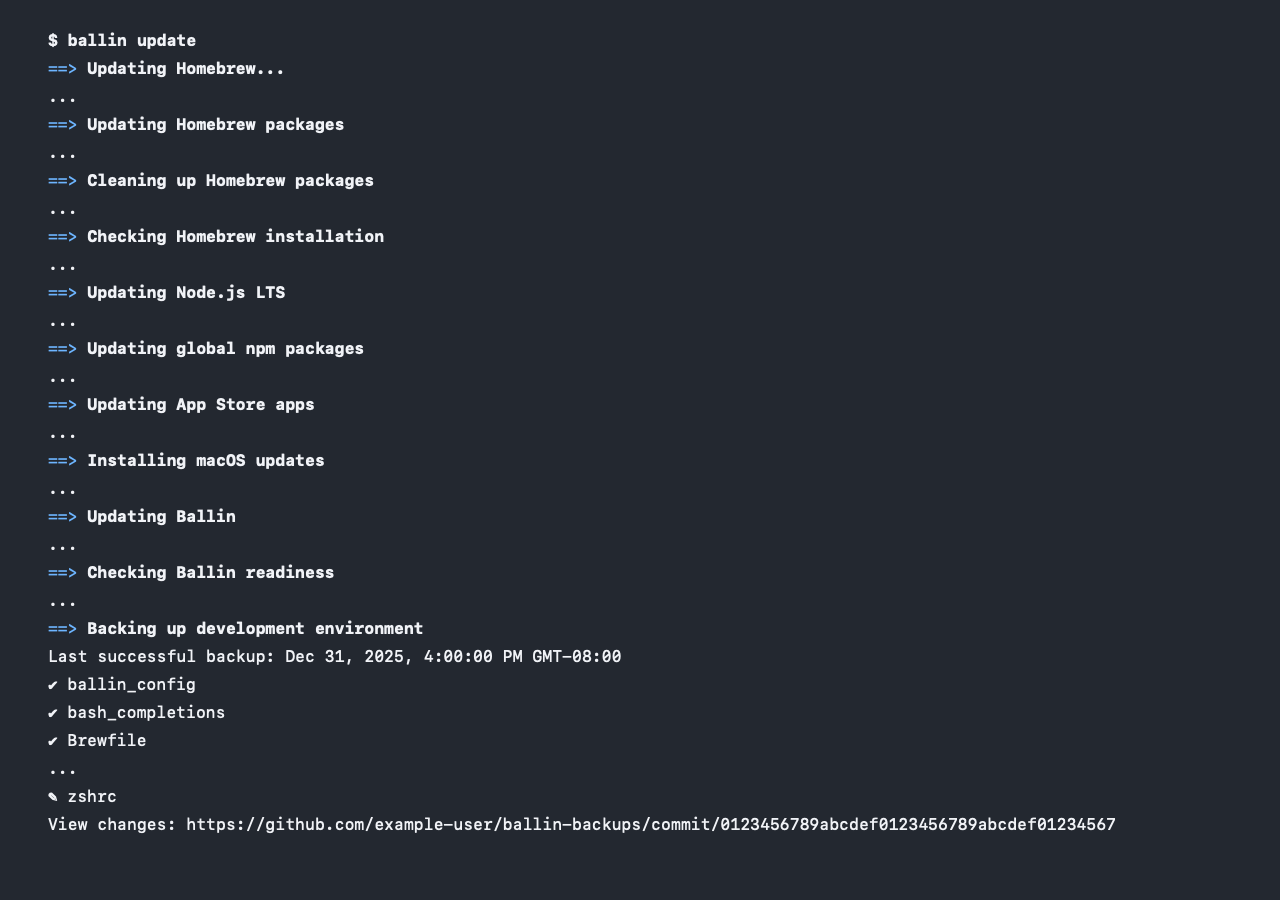
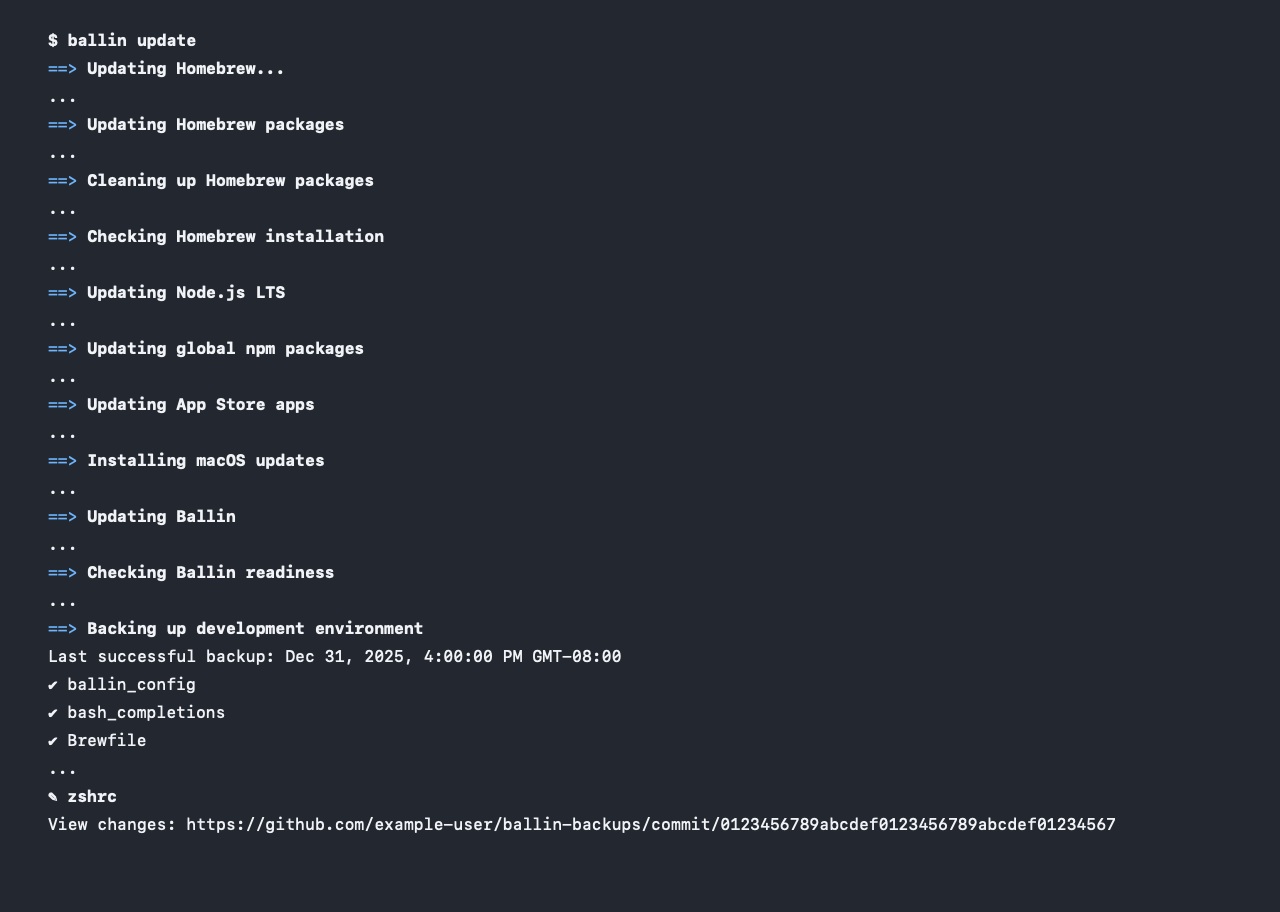
docs: make README example image reproducible

diff --git a/docs/assets/render-readme-update-example.swift b/docs/assets/render-readme-update-example.swift
@@ -1,0 +1,87 @@
+import AppKit
+import Foundation
+
+let inputData = FileHandle.standardInput.readDataToEndOfFile()
+guard let input = String(data: inputData, encoding: .utf8) else {
+    fatalError("Expected UTF-8 terminal output on stdin")
+}
+
+var lines = input.components(separatedBy: "\n")
+if lines.last == "" { lines.removeLast() }
+
+let width = 1280
+let height = max(720, lines.count * 28 + 100)
+let image = NSBitmapImageRep(
+    bitmapDataPlanes: nil,
+    pixelsWide: width,
+    pixelsHigh: height,
+    bitsPerSample: 8,
+    samplesPerPixel: 4,
+    hasAlpha: true,
+    isPlanar: false,
+    colorSpaceName: .deviceRGB,
+    bytesPerRow: 0,
+    bitsPerPixel: 0
+)!
+let graphics = NSGraphicsContext(bitmapImageRep: image)!
+NSGraphicsContext.saveGraphicsState()
+NSGraphicsContext.current = graphics
+graphics.cgContext.setFillColor(NSColor(calibratedRed: 0.105, green: 0.118, blue: 0.141, alpha: 1).cgColor)
+graphics.cgContext.fill(CGRect(x: 0, y: 0, width: width, height: height))
+
+let escape = "\u{001B}"
+let pattern = try NSRegularExpression(pattern: "\u{001B}\\[([0-9;]*)m")
+let regularFont = NSFont.monospacedSystemFont(ofSize: 16, weight: .regular)
+let boldFont = NSFont.monospacedSystemFont(ofSize: 16, weight: .bold)
+let normalColor = NSColor(calibratedRed: 0.93, green: 0.94, blue: 0.96, alpha: 1)
+let blueColor = NSColor(calibratedRed: 0.36, green: 0.64, blue: 1, alpha: 1)
+
+for (row, line) in lines.enumerated() {
+    let source = line as NSString
+    let matches = pattern.matches(in: line, range: NSRange(location: 0, length: source.length))
+    let rendered = NSMutableAttributedString(string: "")
+    var cursor = 0
+    var bold = false
+    var blue = false
+
+    for match in matches {
+        if match.range.location > cursor {
+            let text = source.substring(with: NSRange(location: cursor, length: match.range.location - cursor))
+            rendered.append(NSAttributedString(string: text, attributes: [
+                .font: bold ? boldFont : regularFont,
+                .foregroundColor: blue ? blueColor : normalColor,
+            ]))
+        }
+
+        let codes = source.substring(with: match.range(at: 1)).split(separator: ";").compactMap { Int($0) }
+        for code in codes {
+            switch code {
+            case 0: bold = false; blue = false
+            case 1: bold = true
+            case 22: bold = false
+            case 34: blue = true
+            case 39: blue = false
+            default: break
+            }
+        }
+        cursor = match.range.location + match.range.length
+    }
+
+    if cursor < source.length {
+        let text = source.substring(from: cursor)
+        rendered.append(NSAttributedString(string: text, attributes: [
+            .font: bold ? boldFont : regularFont,
+            .foregroundColor: blue ? blueColor : normalColor,
+        ]))
+    }
+
+    if line.contains(escape) && matches.isEmpty {
+        fatalError("Unsupported ANSI escape sequence in terminal output")
+    }
+    rendered.draw(at: NSPoint(x: 48, y: height - 50 - row * 28))
+}
+
+NSGraphicsContext.restoreGraphicsState()
+let png = image.representation(using: .png, properties: [:])!
+let outputPath = CommandLine.arguments.dropFirst().first ?? "docs/assets/readme-update-example.png"
+try png.write(to: URL(fileURLWithPath: outputPath))

diff --git a/docs/assets/print-readme-update-example.ts b/docs/assets/print-readme-update-example.ts
@@ -1,4 +1,5 @@
-const { terminalHeading } = require('../../commands/terminalStyle.ts') as {
+const { terminalEmphasis, terminalHeading } = require('../../commands/terminalStyle.ts') as {
+  terminalEmphasis: (text: string, kind: 'bold', stream: { isTTY?: boolean }, env: NodeJS.ProcessEnv) => string;
   terminalHeading: (text: string, stream: { isTTY?: boolean }, env: NodeJS.ProcessEnv) => string;
 };
 
@@ -35,6 +36,8 @@ const example = [
 
 const output = example.map((line) => line.startsWith('==> ')
   ? terminalHeading(line.slice(4), { isTTY: true }, { TERM: 'xterm-256color' })
-  : line);
+  : line === '✎ zshrc'
+    ? terminalEmphasis(line, 'bold', { isTTY: true }, { TERM: 'xterm-256color' })
+    : line);
 
 process.stdout.write(`\x1b[1m$ ballin update\x1b[0m\n${output.join('\n')}\n`);

diff --git a/docs/assets/README.md b/docs/assets/README.md
@@ -1,0 +1,11 @@
+# README example image
+
+Regenerate the `ballin update` image from the repository root on macOS with:
+
+```sh
+node docs/assets/print-readme-update-example.ts | swift -module-cache-path /private/tmp/ballin-update-example-swift-cache docs/assets/render-readme-update-example.swift
+```
+
+The printer contains a fixed sample and writes styled terminal text to stdout.
+It does not run Ballin maintenance. The renderer converts that ANSI output to
+the PNG embedded in the repository README.
